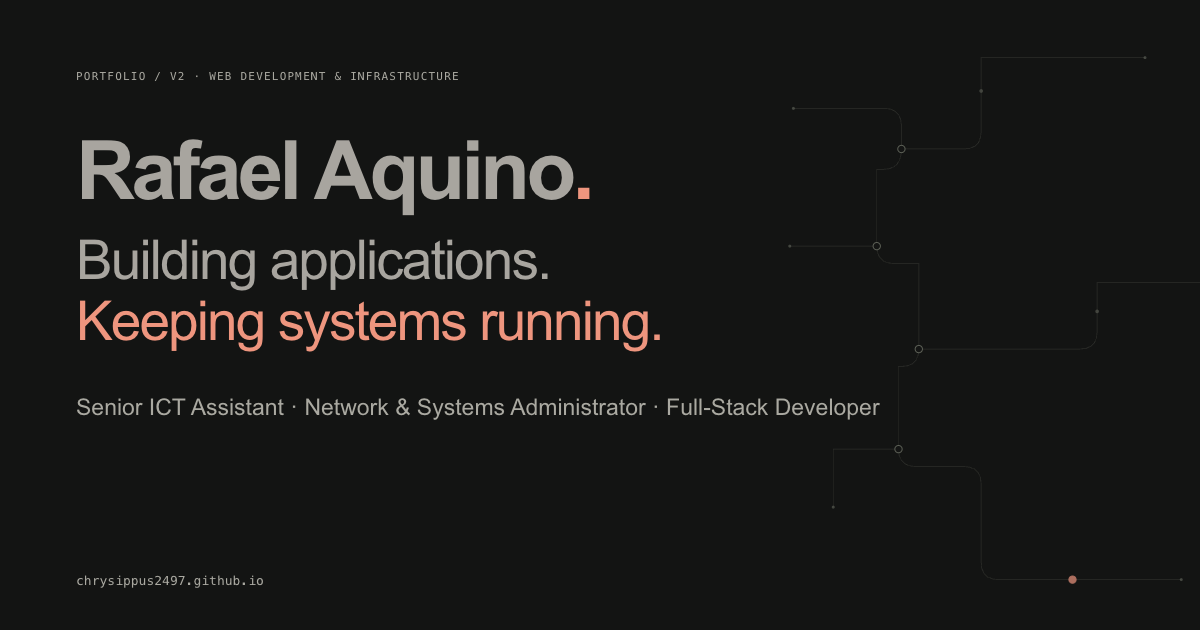
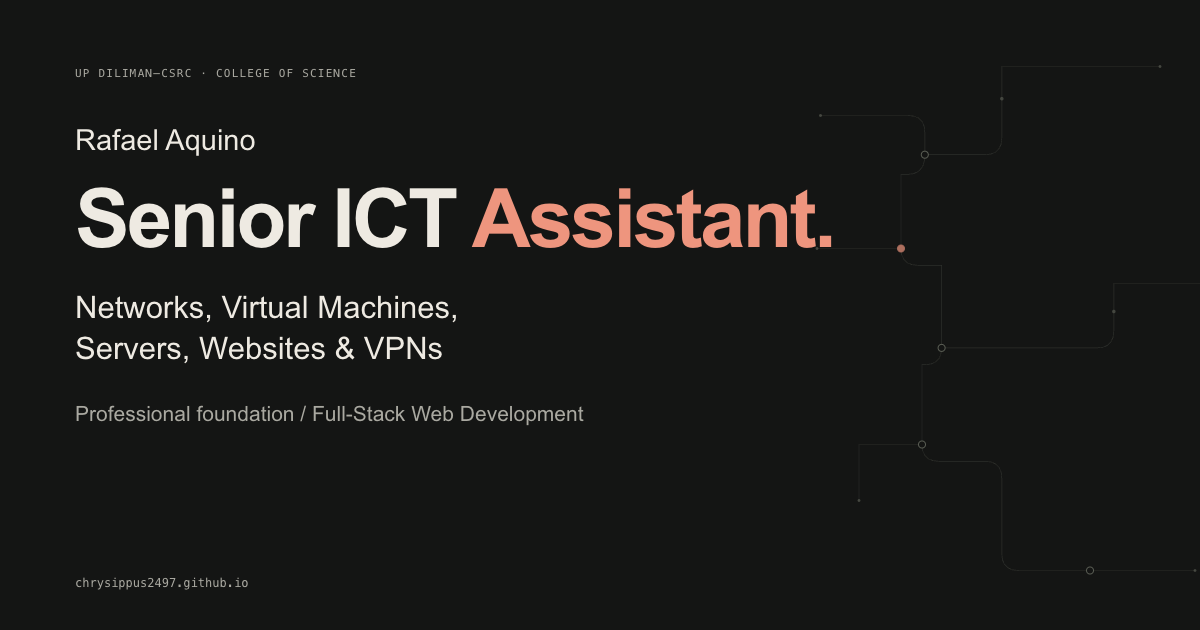
Lead with current ICT responsibilities and refine navigation and contact
Make Senior ICT Assistant the primary role across the hero, career diagram, current appointment, About, metadata, and sharing artwork. Preserve full-stack development as the professional foundation and retain all project records.

Add Overview and a visible filled active-navigation square. Introduce a Let’s Connect area with a mailto link, copy-email confirmation, and denied-clipboard fallback. Verify both themes, mobile layouts, navigation, and clipboard behavior.

diff --git a/index.html b/index.html
@@ -6,26 +6,26 @@
     <meta name="viewport" content="width=device-width, initial-scale=1">
     <meta name="theme-color" content="#141514">
     <script src="theme-init.js"></script>
-    <title>Rafael Aquino — Senior ICT Assistant · Networks, Systems & Software</title>
+    <title>Rafael Aquino — Senior ICT Assistant · UP Diliman–CSRC</title>
     <meta name="description"
-        content="Rafael Aquino — Senior ICT Assistant, Network & Systems Administrator, and Full-Stack Developer at UP Diliman. Web development experience expanded into networking, Linux servers, virtual machines, website maintenance, and VPN management.">
+        content="Rafael Aquino — Senior ICT Assistant at UP Diliman–CSRC, College of Science. Web development experience expanded into networking, Linux servers, virtual machines, website maintenance, and VPN management.">
     <link rel="canonical" href="https://chrysippus2497.github.io/">
     <meta property="og:type" content="website">
     <meta property="og:locale" content="en_PH">
-    <meta property="og:title" content="Rafael Aquino — Building applications. Keeping systems running.">
+    <meta property="og:title" content="Rafael Aquino — Senior ICT Assistant · Networks, Servers & ICT Operations">
     <meta property="og:description"
-        content="Senior ICT Assistant · Network & Systems Administrator · Full-Stack Developer. Explore institutional systems, websites, and infrastructure experience.">
+        content="Networks, virtual machines, servers, websites and VPNs. A foundation in full-stack web development, expanded into ICT operations.">
     <meta property="og:url" content="https://chrysippus2497.github.io/">
     <meta property="og:image" content="https://chrysippus2497.github.io/images/social-preview.png">
     <meta property="og:image:width" content="1200">
     <meta property="og:image:height" content="630">
-    <meta property="og:image:alt" content="Rafael Aquino — Building applications. Keeping systems running.">
+    <meta property="og:image:alt" content="Rafael Aquino — Senior ICT Assistant · Networks, Servers & ICT Operations">
     <meta name="twitter:card" content="summary_large_image">
-    <meta name="twitter:title" content="Rafael Aquino — Building applications. Keeping systems running.">
+    <meta name="twitter:title" content="Rafael Aquino — Senior ICT Assistant · Networks, Servers & ICT Operations">
     <meta name="twitter:description"
-        content="Senior ICT Assistant, Network & Systems Administrator, and Full-Stack Developer at UP Diliman.">
+        content="Senior ICT Assistant at UP Diliman–CSRC, College of Science.">
     <meta name="twitter:image" content="https://chrysippus2497.github.io/images/social-preview.png">
-    <meta name="twitter:image:alt" content="Rafael Aquino — Building applications. Keeping systems running.">
+    <meta name="twitter:image:alt" content="Rafael Aquino — Senior ICT Assistant · Networks, Servers & ICT Operations">
     <link rel="icon" type="image/png" href="images/faviconCircle.png">
     <link rel="preload" href="assets/Calibre-Regular-b0d4cbb1201155ddccc21d1b8059a670.woff2" as="font" type="font/woff2"
         crossorigin>
@@ -34,7 +34,7 @@
     <link rel="stylesheet" href="style.css">
     <script src="javascript.js" defer></script>
     <script
-        type="application/ld+json">{"@context":"https://schema.org","@type":"Person","name":"Rafael Aquino","url":"https://chrysippus2497.github.io/","image":"https://chrysippus2497.github.io/images/rafael-aquino.webp","jobTitle":["Senior ICT Assistant","Network & Systems Administrator","Full-Stack Developer"],"worksFor":{"@type":"Organization","name":"University of the Philippines Diliman — College of Science, Computational Science Research Center"},"alumniOf":{"@type":"CollegeOrUniversity","name":"AMA Computer College Caloocan"},"sameAs":["https://github.com/chrysippus2497","https://codepen.io/devrap2497"],"knowsAbout":["Network infrastructure","Systems administration","Virtualization","Full-stack development","Institutional systems"]}</script>
+        type="application/ld+json">{"@context":"https://schema.org","@type":"Person","name":"Rafael Aquino","url":"https://chrysippus2497.github.io/","image":"https://chrysippus2497.github.io/images/rafael-aquino.webp","jobTitle":"Senior ICT Assistant","worksFor":{"@type":"Organization","name":"University of the Philippines Diliman — College of Science, Computational Science Research Center"},"alumniOf":{"@type":"CollegeOrUniversity","name":"AMA Computer College Caloocan"},"sameAs":["https://github.com/chrysippus2497","https://codepen.io/devrap2497"],"knowsAbout":["Network infrastructure","Systems administration","Virtualization","Full-stack development","Institutional systems"]}</script>
 </head>
 
 <body>
@@ -54,7 +54,7 @@
             </div>
         </div>
         <noscript><nav class="no-script-nav wrap" aria-label="Primary navigation">
-            <a href="#projects">Work</a><a href="#infrastructure">Infrastructure</a><a href="#experience">Experience</a><a href="#expertise">Expertise</a><a href="#about">About</a><a href="resume/resume.pdf" target="_blank" rel="noopener">Résumé ↗</a><a href="#contact">Contact</a>
+            <a href="#home">Overview</a><a href="#projects">Work</a><a href="#infrastructure">Infrastructure</a><a href="#experience">Experience</a><a href="#expertise">Expertise</a><a href="#about">About</a><a href="resume/resume.pdf" target="_blank" rel="noopener">Résumé ↗</a><a href="#contact">Contact</a>
         </nav></noscript>
     </header>
     <dialog class="menu-dialog" id="navigation-panel" aria-labelledby="menu-heading">
@@ -62,8 +62,9 @@
             <div class="menu-panel-header"><p class="eyebrow" id="menu-heading">Explore the portfolio</p>
                 <button class="menu-close" type="button" aria-label="Close navigation menu" title="Close menu"><span class="close-icon" aria-hidden="true"></span></button>
             </div>
-            <p class="menu-intro">Developer roots.<br><span>Systems perspective.</span></p>
+            <p class="menu-intro">Senior ICT Assistant.<br><span>Networks & systems.</span></p>
             <nav class="menu-links" id="nav-links" aria-label="Primary navigation">
+                <a href="#home" data-label="Overview"><span class="menu-number" aria-hidden="true">00</span><span>Overview</span><span class="menu-active-indicator" aria-hidden="true"></span></a>
                 <a href="#projects" data-label="Selected work"><span class="menu-number" aria-hidden="true">01</span><span>Selected work</span><span class="menu-active-indicator" aria-hidden="true"></span></a>
                 <a href="#infrastructure" data-label="Infrastructure"><span class="menu-number" aria-hidden="true">02</span><span>Infrastructure</span><span class="menu-active-indicator" aria-hidden="true"></span></a>
                 <a href="#experience" data-label="Experience"><span class="menu-number" aria-hidden="true">03</span><span>Experience</span><span class="menu-active-indicator" aria-hidden="true"></span></a>
@@ -85,64 +86,41 @@
                     <g class="system-paths"><path d="M115 140H240Q264 140 264 164V196Q264 224 240 224H230V330Q230 354 254 354H288V472Q288 496 264 496H260V610Q260 634 284 634H350Q374 634 374 658V766Q374 790 398 790H650"/>
                         <path d="M264 196H350Q374 196 374 172V70H600M230 330H110M288 472H510Q534 472 534 448V380H738M260 610H170V690"/></g>
                     <g class="system-endpoints"><circle cx="115" cy="140" r="2"/><circle cx="600" cy="70" r="2"/><circle cx="110" cy="330" r="2"/><circle cx="738" cy="380" r="2"/><circle cx="170" cy="690" r="2"/><circle cx="650" cy="790" r="2"/></g>
-                    <g class="system-nodes"><circle cx="264" cy="196" r="5"/><circle cx="230" cy="330" r="5"/><circle cx="288" cy="472" r="5"/><circle cx="260" cy="610" r="5"/><circle class="system-node-active" cx="500" cy="790" r="5"/></g>
+                    <g class="system-nodes"><circle cx="264" cy="196" r="5"/><circle class="system-node-active" cx="230" cy="330" r="5"/><circle cx="288" cy="472" r="5"/><circle cx="260" cy="610" r="5"/><circle cx="500" cy="790" r="5"/></g>
                     <g class="system-junctions"><circle cx="374" cy="116" r="2.5"/><circle cx="534" cy="420" r="2.5"/></g>
-                    <g class="system-annotations"><text x="122" y="125">01 / NETWORK</text><text x="128" y="456">03 / COMPUTE</text><text x="520" y="814">05 / APPLICATION</text></g>
+                    <g class="system-annotations"><text x="122" y="125">FOUNDATION / WEB</text><text x="128" y="456">CURRENT / ICT</text><text x="520" y="814">SERVICES / SUPPORT</text></g>
                 </svg>
                 <svg class="system-mobile" viewBox="0 0 360 220" fill="none" focusable="false">
                     <g class="system-paths"><path d="M18 54H96Q112 54 112 70V102Q112 118 128 118H230Q246 118 246 134V160Q246 176 262 176H344M184 118V66Q184 50 200 50H302"/></g>
                     <g class="system-endpoints"><circle cx="18" cy="54" r="2"/><circle cx="302" cy="50" r="2"/><circle cx="344" cy="176" r="2"/></g>
-                    <g class="system-nodes"><circle cx="78" cy="54" r="4"/><circle cx="184" cy="118" r="4"/><circle cx="246" cy="153" r="4"/><circle class="system-node-active" cx="300" cy="176" r="4"/></g>
-                    <g class="system-annotations"><text x="205" y="36">CONNECTED / 01—05</text></g>
+                    <g class="system-nodes"><circle cx="78" cy="54" r="4"/><circle class="system-node-active" cx="184" cy="118" r="4"/><circle cx="246" cy="153" r="4"/><circle cx="300" cy="176" r="4"/></g>
+                    <g class="system-annotations"><text x="205" y="36">WEB → ICT OPERATIONS</text></g>
                 </svg>
             </div>
             <div class="hero-copy">
-                <p class="eyebrow"><span class="status-dot" aria-hidden="true"></span> Web development & infrastructure
-                </p>
-                <h1 id="hero-title">Rafael Aquino<span class="accent">.</span></h1>
-                <p class="hero-statement">Building applications.<br><span>Keeping systems<br>running.</span></p>
-                <p class="hero-intro">I started in web development. Today, as a Senior ICT Assistant at UP Diliman–CSRC, I manage networks, Linux servers, Proxmox virtual machines, websites, and VPN access.</p>
-                <div class="hero-roles"><strong>Senior ICT Assistant</strong><span>Network & Systems
-                        Administrator</span><span>Full-Stack Developer</span></div>
-                <div class="actions"><a class="button button-primary" href="#projects">Explore selected work <span
+                <p class="eyebrow"><span class="status-dot" aria-hidden="true"></span> UP Diliman–CSRC · College of Science</p>
+                <p class="hero-name">Rafael Aquino<span class="accent">.</span></p>
+                <h1 id="hero-title">Senior ICT<br><span class="accent">Assistant.</span></h1>
+                <p class="hero-statement">Networks, Virtual Machines,<br>Servers, Websites & VPNs</p>
+                <p class="hero-intro">Since August 2026, I support the ICT operations behind CSRC and College of Science services — from connectivity and virtual machines to Linux servers, institutional websites, and VPN access.</p>
+                <p class="hero-foundation"><span>Professional foundation</span><strong>Full-Stack Web Development</strong><br>Where I started. A skill I continue to use.</p>
+                <div class="actions"><a class="button button-primary" href="#infrastructure">Explore my ICT work <span
                             aria-hidden="true">→</span></a><a class="button button-secondary" href="resume/resume.pdf" target="_blank" rel="noopener">View résumé <span aria-hidden="true">↗</span></a></div>
                 <div class="hero-socials"><a class="social-link" href="https://github.com/chrysippus2497" target="_blank" rel="noopener noreferrer" aria-label="GitHub profile (opens in a new tab)" title="GitHub"><svg class="social-icon" width="21" height="21" viewBox="0 0 24 24" fill="none" stroke="currentColor" stroke-width="1.6" stroke-linecap="round" stroke-linejoin="round" aria-hidden="true" focusable="false"><path d="M9 19c-5 1.5-5-2.5-7-3m14 6v-3.87a3.37 3.37 0 0 0-.94-2.61c3.14-.35 6.44-1.54 6.44-7A5.44 5.44 0 0 0 20 4.77 5.07 5.07 0 0 0 19.91 1S18.73.65 16 2.48a13.38 13.38 0 0 0-7 0C6.27.65 5.09 1 5.09 1A5.07 5.07 0 0 0 5 4.77a5.44 5.44 0 0 0-1.5 3.78c0 5.42 3.3 6.61 6.44 7A3.37 3.37 0 0 0 9 18.13V22"/></svg></a><a class="social-link" href="https://codepen.io/devrap2497" target="_blank" rel="noopener noreferrer" aria-label="CodePen profile (opens in a new tab)" title="CodePen"><svg class="social-icon" width="21" height="21" viewBox="0 0 24 24" fill="none" stroke="currentColor" stroke-width="1.6" stroke-linecap="round" stroke-linejoin="round" aria-hidden="true" focusable="false"><polygon points="12 2 22 8.5 22 15.5 12 22 2 15.5 2 8.5 12 2"/><path d="M12 22v-6.5M22 8.5l-10 7-10-7m0 7 10-7 10 7M12 2v6.5"/></svg></a></div>
             </div>
             <figure class="stack-figure" aria-labelledby="stack-title">
-                <figcaption><span class="eyebrow" id="stack-title">An end-to-end perspective</span><span class="mono">01
-                        — 07</span></figcaption>
-                <ol class="stack-layers">
-                    <li><button type="button" data-layer="network" aria-pressed="false"><span
-                                class="layer-number">01</span><span class="layer-name">Network<small>Aruba CX · Cisco ·
-                                    UniFi</small></span><span class="layer-icon" aria-hidden="true">⌁</span></button>
-                    </li>
-                    <li><button type="button" data-layer="security" aria-pressed="false"><span
-                                class="layer-number">02</span><span class="layer-name">Security & access<small>pfSense ·
-                                    OpenVPN</small></span><span class="layer-icon" aria-hidden="true">◇</span></button>
-                    </li>
-                    <li><button type="button" data-layer="virtualization" aria-pressed="false"><span
-                                class="layer-number">03</span><span class="layer-name">Virtualization<small>Proxmox
-                                    VE</small></span><span class="layer-icon" aria-hidden="true">▱</span></button></li>
-                    <li><button type="button" data-layer="systems" aria-pressed="false"><span
-                                class="layer-number">04</span><span class="layer-name">Systems<small>Linux ·
-                                    Docker</small></span><span class="layer-icon" aria-hidden="true">▤</span></button>
-                    </li>
-                    <li><button type="button" data-layer="services" aria-pressed="false"><span
-                                class="layer-number">05</span><span class="layer-name">Web services<small>Web servers ·
-                                    Databases</small></span><span class="layer-icon"
-                                aria-hidden="true">≡</span></button></li>
-                    <li><button type="button" data-layer="applications" aria-pressed="true"><span
-                                class="layer-number">06</span><span class="layer-name">Applications<small>Laravel · PHP
-                                    · JavaScript · Vue</small></span><span class="layer-icon"
-                                aria-hidden="true">&lt;/&gt;</span></button></li>
-                    <li><button type="button" data-layer="experience" aria-pressed="false"><span
-                                class="layer-number">07</span><span class="layer-name">User experience<small>The people
-                                    using it all</small></span><span class="layer-icon"
-                                aria-hidden="true">↗</span></button></li>
+                <figcaption><span class="eyebrow" id="stack-title">From web development to ICT operations</span></figcaption>
+                <ol class="stack-layers career-layers">
+                    <li class="foundation-layer"><button type="button" data-layer="applications" aria-pressed="false"><span class="layer-number">Foundation</span><span class="layer-name">Full-stack web development<small>Websites · Applications · Institutional workflows</small></span><span class="layer-icon" aria-hidden="true">&lt;/&gt;</span></button></li>
+                    <li class="current-layer"><button type="button" data-layer="operations" aria-pressed="true"><span class="layer-number">Current</span><span class="layer-name">ICT operations<small>Senior ICT Assistant · August 2026–present</small></span><span class="layer-icon" aria-hidden="true">▤</span></button></li>
+                    <li class=""><button type="button" data-layer="network" aria-pressed="false"><span class="layer-number">01</span><span class="layer-name">Networks<small>Switching · Wireless · Connectivity</small></span><span class="layer-icon" aria-hidden="true">⌁</span></button></li>
+                    <li class=""><button type="button" data-layer="virtualization" aria-pressed="false"><span class="layer-number">02</span><span class="layer-name">Virtual machines<small>Proxmox VE · Provisioning · Backups</small></span><span class="layer-icon" aria-hidden="true">▱</span></button></li>
+                    <li class=""><button type="button" data-layer="systems" aria-pressed="false"><span class="layer-number">03</span><span class="layer-name">Linux servers<small>Administration · Monitoring · Maintenance</small></span><span class="layer-icon" aria-hidden="true">▤</span></button></li>
+                    <li class=""><button type="button" data-layer="services" aria-pressed="false"><span class="layer-number">04</span><span class="layer-name">Institutional websites<small>Maintenance · Web services · Databases</small></span><span class="layer-icon" aria-hidden="true">≡</span></button></li>
+                    <li class=""><button type="button" data-layer="security" aria-pressed="false"><span class="layer-number">05</span><span class="layer-name">VPN management<small>pfSense · Accounts · Remote access</small></span><span class="layer-icon" aria-hidden="true">◇</span></button></li>
                 </ol>
-                <p class="stack-detail" id="stack-detail" aria-live="polite">Applications turn infrastructure into
-                    useful tools: institutional workflows, business platforms, and everyday services.</p>
-                <p class="figure-note">Connected areas of experience, not a single project architecture.</p>
+                <p class="stack-detail" id="stack-detail" aria-live="polite">My current focus: networking, Proxmox virtual machines, Linux server administration, institutional website maintenance, and VPN management.</p>
+                <p class="figure-note">Professional foundation → current responsibilities. Select an area to explore.</p>
             </figure>
             <div class="hero-bottom"><span>Currently at <strong>UP Diliman · College of Science / CSRC</strong></span><a
                     href="#projects">Explore selected work <span aria-hidden="true">↓</span></a></div>
@@ -154,7 +132,7 @@
                     <p class="eyebrow"><span>01 /</span> Selected work</p>
                     <h2 id="work-title">Built for real workflows<span class="accent">.</span></h2>
                 </div>
-                <p>Institutional systems, business platforms, and websites — from the workflows they support to the code and services that make them work.</p>
+                <p>Selected work from my full-stack web development foundation — institutional systems, business platforms, and websites. These projects remain part of my technical experience.</p>
             </div>
             <div class="work-toolbar" hidden>
                 <div class="filters" role="group" aria-label="Filter projects"><button type="button" data-filter="all"
@@ -330,9 +308,9 @@
                         <p><time datetime="2026-08">August 2026</time> — Present</p>
                     </div>
                     <div class="career-body">
-                        <p class="career-domain">Infrastructure + applications</p>
+                        <p class="career-domain">Current focus / ICT operations</p>
                         <h3>Senior ICT Assistant</h3>
-                        <p class="career-role">Network & Systems Administrator · Full-Stack Developer</p>
+                        <p class="career-role">Networks, Virtual Machines, Servers, Websites & VPNs</p>
                         <p class="organization">University of the Philippines Diliman<br>College of Science —
                             Computational Science Research Center (CSRC)</p>
                         <div class="responsibilities">
@@ -492,15 +470,10 @@
                 </div>
                 <div class="about-copy">
                     <p class="eyebrow"><span>05 /</span> About</p>
-                    <h2 id="about-title">It started with the web.<br>The scope keeps growing.</h2>
-                    <p>I started with software: websites, business tools, and systems for schools. That background still
-                        guides my work — understanding a workflow, building the right interface, and making the
-                        application useful to the people relying on it.</p>
-                    <p>At UP Diliman, that perspective has expanded into enterprise networks, wireless infrastructure,
-                        Proxmox virtual machines, Linux server administration, website maintenance, and VPN management. I now work with both the application and
-                        the systems that keep it running.</p>
-                    <p class="about-emphasis">Development helps me understand what people use.<br>Infrastructure helps
-                        me understand what it depends on.</p>
+                    <h2 id="about-title">A foundation in web development.<br>A current focus on ICT operations.</h2>
+                    <p>I began in full-stack web development, building websites, business tools, and institutional applications. That remains an ongoing skill and the foundation of how I understand the services people use.</p>
+                    <p>Since August 2026, I have been a Senior ICT Assistant at UP Diliman–CSRC, College of Science. My current work centers on networking, Proxmox virtual machine management, Linux server administration, institutional website maintenance, and VPN management.</p>
+                    <p class="about-emphasis">My scope expanded from building web applications to operating and maintaining the systems behind institutional services.</p>
                     <div class="education"><span class="eyebrow">Education</span>
                         <h3>Bachelor of Science in Information Technology</h3>
                         <p>AMA Computer College Caloocan<br>Core Member — Google Developer Student Clubs (GDSC)</p>
@@ -528,11 +501,14 @@
             <div class="wrap section">
                 <p class="eyebrow"><span>06 /</span> Get in touch</p>
                 <div class="contact-layout">
-                    <h2 id="contact-title">Let’s build.<br>Keep it running.<br><span class="accent">Make it better.</span></h2>
+                    <h2 id="contact-title">Let’s <span class="accent">Connect.</span></h2>
                     <div class="contact-copy">
-                        <p>Have a website, a system, or an infrastructure challenge in mind? Let’s talk about what it
-                            needs.</p><a class="contact-email"
-                            href="mailto:rafael.aquino.186@gmail.com">rafael.aquino.186@gmail.com <svg class="email-icon" width="21" height="21" viewBox="0 0 24 24" fill="none" stroke="currentColor" stroke-width="1.6" stroke-linecap="round" stroke-linejoin="round" aria-hidden="true" focusable="false"><rect x="3" y="5" width="18" height="14" rx="2"/><path d="m3 7 9 6 9-6"/></svg></a>
+                        <p>For ICT operations, institutional services, or web development collaborations, you can reach me directly.</p>
+                        <div class="contact-email-panel">
+                            <span class="contact-email-label"><svg class="email-icon" width="21" height="21" viewBox="0 0 24 24" fill="none" stroke="currentColor" stroke-width="1.6" stroke-linecap="round" stroke-linejoin="round" aria-hidden="true"><rect x="3" y="5" width="18" height="14" rx="2"/><path d="m3 7 9 6 9-6"/></svg>Email Rafael</span>
+                            <a class="contact-email" id="contact-email" href="mailto:rafael.aquino.186@gmail.com">rafael.aquino.186@gmail.com</a>
+                            <div class="copy-email-row"><button class="copy-email" type="button" hidden><svg width="17" height="17" viewBox="0 0 24 24" fill="none" stroke="currentColor" stroke-width="1.6" aria-hidden="true"><rect x="8" y="8" width="12" height="13" rx="2"/><path d="M16 8V3H3v13h5"/></svg>Copy email</button><span class="copy-status" role="status" aria-live="polite"></span></div>
+                        </div>
                         <div class="contact-links"><a class="social-link" href="https://github.com/chrysippus2497" target="_blank" rel="noopener noreferrer" aria-label="GitHub profile (opens in a new tab)" title="GitHub"><svg class="social-icon" width="21" height="21" viewBox="0 0 24 24" fill="none" stroke="currentColor" stroke-width="1.6" stroke-linecap="round" stroke-linejoin="round" aria-hidden="true" focusable="false"><path d="M9 19c-5 1.5-5-2.5-7-3m14 6v-3.87a3.37 3.37 0 0 0-.94-2.61c3.14-.35 6.44-1.54 6.44-7A5.44 5.44 0 0 0 20 4.77 5.07 5.07 0 0 0 19.91 1S18.73.65 16 2.48a13.38 13.38 0 0 0-7 0C6.27.65 5.09 1 5.09 1A5.07 5.07 0 0 0 5 4.77a5.44 5.44 0 0 0-1.5 3.78c0 5.42 3.3 6.61 6.44 7A3.37 3.37 0 0 0 9 18.13V22"/></svg></a><a class="social-link" href="https://codepen.io/devrap2497" target="_blank" rel="noopener noreferrer" aria-label="CodePen profile (opens in a new tab)" title="CodePen"><svg class="social-icon" width="21" height="21" viewBox="0 0 24 24" fill="none" stroke="currentColor" stroke-width="1.6" stroke-linecap="round" stroke-linejoin="round" aria-hidden="true" focusable="false"><polygon points="12 2 22 8.5 22 15.5 12 22 2 15.5 2 8.5 12 2"/><path d="M12 22v-6.5M22 8.5l-10 7-10-7m0 7 10-7 10 7M12 2v6.5"/></svg></a><a class="document-link" href="resume/resume.pdf"
                                 download="Rafael_Aquino_Resume.pdf">Download résumé <span aria-hidden="true">↓</span></a></div>
                     </div>
@@ -541,7 +517,7 @@
         </section>
     </main>
     <footer class="site-footer wrap">
-        <div class="footer-identity"><p>Rafael Aquino</p><span>Network, Systems & Software</span></div>
+        <div class="footer-identity"><p>Rafael Aquino</p><span>Senior ICT Assistant · Networks & Systems</span></div>
         <div class="footer-links"><a class="social-link" href="https://github.com/chrysippus2497" target="_blank" rel="noopener noreferrer" aria-label="GitHub profile (opens in a new tab)" title="GitHub"><svg class="social-icon" width="21" height="21" viewBox="0 0 24 24" fill="none" stroke="currentColor" stroke-width="1.6" stroke-linecap="round" stroke-linejoin="round" aria-hidden="true" focusable="false"><path d="M9 19c-5 1.5-5-2.5-7-3m14 6v-3.87a3.37 3.37 0 0 0-.94-2.61c3.14-.35 6.44-1.54 6.44-7A5.44 5.44 0 0 0 20 4.77 5.07 5.07 0 0 0 19.91 1S18.73.65 16 2.48a13.38 13.38 0 0 0-7 0C6.27.65 5.09 1 5.09 1A5.07 5.07 0 0 0 5 4.77a5.44 5.44 0 0 0-1.5 3.78c0 5.42 3.3 6.61 6.44 7A3.37 3.37 0 0 0 9 18.13V22"/></svg></a><a class="social-link" href="https://codepen.io/devrap2497" target="_blank" rel="noopener noreferrer" aria-label="CodePen profile (opens in a new tab)" title="CodePen"><svg class="social-icon" width="21" height="21" viewBox="0 0 24 24" fill="none" stroke="currentColor" stroke-width="1.6" stroke-linecap="round" stroke-linejoin="round" aria-hidden="true" focusable="false"><polygon points="12 2 22 8.5 22 15.5 12 22 2 15.5 2 8.5 12 2"/><path d="M12 22v-6.5M22 8.5l-10 7-10-7m0 7 10-7 10 7M12 2v6.5"/></svg></a><a href="mailto:rafael.aquino.186@gmail.com" aria-label="Email Rafael Aquino" title="Email"><svg class="email-icon" width="21" height="21" viewBox="0 0 24 24" fill="none" stroke="currentColor" stroke-width="1.6" aria-hidden="true"><rect x="3" y="5" width="18" height="14" rx="2"/><path d="m3 7 9 6 9-6"/></svg></a><a href="resume/resume.pdf" target="_blank" rel="noopener">Résumé ↗</a></div>
         <div class="footer-version"><span>© <span id="year">2026</span></span><a href="v2/" aria-label="Portfolio version 2, current">Portfolio / V2</a><a href="v1/">Archive V1 ↗</a></div>
     </footer>

diff --git a/javascript.js b/javascript.js
@@ -80,19 +80,42 @@
   });
 
   const layers = {
-    network: 'Connectivity is the foundation. Enterprise switching and wireless networks connect people, devices, and services.',
-    security: 'Access connects that foundation to the right people. Firewall and VPN administration support secure remote connectivity.',
-    virtualization: 'Virtualization gives services a place to run. Proxmox brings virtual machines, resources, snapshots, and backups together.',
-    systems: 'Linux servers and containers provide the operating environment. Maintenance and monitoring support the services above them.',
-    services: 'Web servers and databases serve the application. Configuration, certificates, and production support keep those pieces working together.',
-    applications: 'Applications turn infrastructure into useful tools: institutional workflows, business platforms, and everyday services.',
-    experience: 'People complete the picture. Clear interfaces and practical workflows make the underlying technology useful.'
+    operations: 'My current focus: networking, Proxmox virtual machines, Linux server administration, institutional website maintenance, and VPN management.',
+    network: 'I manage enterprise switching and wireless connectivity, troubleshoot network issues, and support reliable access to College of Science services.',
+    security: 'I manage VPN accounts and remote access through pfSense, including account creation and renewal, access configuration, and user support.',
+    virtualization: 'I manage Proxmox virtual machines: provisioning, resource allocation, snapshots, backups, and monitoring.',
+    systems: 'I administer Linux production servers and containerized services, including maintenance, monitoring, backups, and troubleshooting.',
+    services: 'I maintain CSRC and College of Science websites, web services, databases, and certificates, and support production deployments.',
+    applications: 'Full-stack web development is my professional foundation and an ongoing skill. My earlier work includes websites, business platforms, and institutional applications.'
+
   };
   document.querySelectorAll('[data-layer]').forEach(button => {
     button.addEventListener('click', () => {
       document.querySelectorAll('[data-layer]').forEach(layer => layer.setAttribute('aria-pressed', String(layer === button)));
       document.getElementById('stack-detail').textContent = layers[button.dataset.layer];
     });
+  });
+
+  const copyEmail = document.querySelector('.copy-email');
+  const copyStatus = document.querySelector('.copy-status');
+  let confirmationTimer;
+  copyEmail.hidden = false;
+  copyEmail.addEventListener('click', async () => {
+    clearTimeout(confirmationTimer);
+    const email = document.getElementById('contact-email').getAttribute('href').slice(7);
+    try {
+      await navigator.clipboard.writeText(email);
+      copyStatus.textContent = 'Email copied.';
+    } catch {
+      // Leave the address selected for a manual copy when clipboard access is denied.
+      const range = document.createRange();
+      range.selectNodeContents(document.getElementById('contact-email'));
+      const selection = window.getSelection();
+      selection.removeAllRanges();
+      selection.addRange(range);
+      copyStatus.textContent = 'Select and copy the email address.';
+    }
+    confirmationTimer = setTimeout(() => { copyStatus.textContent = ''; }, 3500);
   });
 
   document.querySelector('.work-toolbar').hidden = false;
@@ -144,7 +167,7 @@
 
   // Track section starts so long project lists retain the correct active navigation link.
   const sectionLinks = [...navigation.querySelectorAll('a[href^="#"]')];
-  const sectionCount = String(sectionLinks.length).padStart(2, '0');
+  const sectionCount = String(sectionLinks.length - 1).padStart(2, '0');
   let scheduled = false;
   function markCurrentSection(current) {
     sectionLinks.forEach(link => {
@@ -152,7 +175,7 @@
       else link.removeAttribute('aria-current');
     });
     document.getElementById('nav-location').textContent = current?.dataset.label || 'Portfolio / V2';
-    document.getElementById('nav-position').textContent = current ? `${String(sectionLinks.indexOf(current) + 1).padStart(2, '0')} / ${sectionCount}` : `Index / ${sectionCount}`;
+    document.getElementById('nav-position').textContent = current ? `${String(sectionLinks.indexOf(current)).padStart(2, '0')} / ${sectionCount}` : `Index / ${sectionCount}`;
   }
   function updateNavigation() {
     const atBottom = Math.ceil(window.scrollY + window.innerHeight) >= document.documentElement.scrollHeight - 2;

diff --git a/style.css b/style.css
@@ -2022,3 +2022,48 @@ a.social-link:hover { color: var(--accent); background: var(--surface-raised); b
 @media print {
   .nav-utilities,.theme-settings,.connected-system,.contact-section::before,.contact-section::after { display:none!important; }
 }
+
+/* Current appointment leads; development remains an explicitly labeled foundation. */
+.hero-name { font-size:30px; font-weight:500; color:var(--ink); margin-top:26px; }
+.hero h1 { font-size:clamp(58px,5.7vw,82px); margin:12px 0 22px; }
+.hero-statement { font-size:clamp(25px,2.2vw,32px); line-height:1.18; letter-spacing:-.015em; }
+.hero-intro { font-size:20px; margin-top:22px; }
+.hero-foundation { font-size:17px; margin-top:23px; line-height:1.45; }
+.hero-foundation>span { display:block; font:10px/1.6 var(--mono); text-transform:uppercase; letter-spacing:.07em; margin-bottom:5px; }
+.hero-foundation strong { color:var(--ink); font-weight:500; }
+.career-layers .foundation-layer { border-bottom:1px solid var(--border); margin-bottom:12px; padding-bottom:10px; }
+.career-layers .foundation-layer .layer-name { font-size:19px; }
+.career-layers .foundation-layer .layer-number,.career-layers .current-layer .layer-number { font-size:9px; padding:4px; }
+.career-layers .foundation-layer button,.career-layers .current-layer button { flex-wrap:wrap; gap:8px 12px; }
+.career-layers .foundation-layer .layer-number,.career-layers .current-layer .layer-number { flex-basis:100%; background:transparent; text-transform:uppercase; }
+.career-layers::before { top:165px; }
+.menu-active-indicator { width:8px; height:8px; background:currentColor; align-self:center; transform:none; }
+.menu-links a { grid-template-columns:25px 8px minmax(0,1fr); column-gap:14px; }
+.menu-links a>.menu-number { grid-column:1; grid-row:1; }
+.menu-links a>span:nth-child(2) { grid-column:3; grid-row:1; }
+.menu-active-indicator { grid-column:2; grid-row:1; }
+.contact-layout { grid-template-columns:minmax(0,.85fr) minmax(0,1.15fr); align-items:start; gap:8%; }
+.contact-copy>p { max-width:480px; }
+.contact-email-panel { border-block:1px solid var(--border-strong); padding:22px 0 14px; }
+.contact-email-label { display:flex; align-items:center; gap:10px; font:11px var(--mono); color:var(--muted); }
+.contact-email-label svg { color:var(--accent); }
+.contact-email { border:0; display:block; font-size:clamp(21px,2.4vw,33px); padding:14px 0; min-height:44px; width:fit-content; }
+.copy-email-row { display:flex; flex-wrap:wrap; align-items:center; gap:8px 18px; }
+.copy-email { display:inline-flex; align-items:center; gap:9px; min-height:44px; padding:8px 12px; border:1px solid var(--border); background:var(--surface-raised); font-size:16px; }
+.copy-email:hover { color:var(--accent); border-color:var(--accent); }
+.copy-status { min-height:20px; font-size:16px; color:var(--accent); }
+@media(max-width:760px) {
+  .hero h1 { font-size:clamp(55px,11vw,78px); }
+  .hero-statement { font-size:27px; }
+  .hero-name { font-size:27px; }
+  .contact-layout { grid-template-columns:1fr; gap:30px; }
+  .contact-email { font-size:clamp(20px,5.4vw,29px); }
+  .contact-layout h2 { margin-bottom:0; }
+}
+@media(max-width:360px) {
+  .hero h1 { font-size:54px; }
+  .hero-statement { font-size:24px; }
+  .menu-links a { column-gap:10px; }
+}
+
+.hero-foundation + .actions { margin-top:24px; }

diff --git a/README.md b/README.md
@@ -12,7 +12,7 @@ Visit `http://127.0.0.1:8765/`. The checked-in HTML also contains every project 
 
 ## Navigation and résumé access
 
-The header uses an icon-only hamburger at every width. It opens a native modal side panel with six numbered section links, a small square marking the active section, contact icons, and a direct résumé link. Escape, the X control, and the desktop backdrop dismiss it; focus returns to the opener or moves to the selected section. The background is inert and scroll-locked while the menu is open. A simple navigation fallback remains available without JavaScript.
+The header uses an icon-only hamburger at every width. It opens a native modal side panel with an Overview link and six numbered section links, a small square marking the active section, contact icons, and a direct résumé link. Escape, the X control, and the desktop backdrop dismiss it; focus returns to the opener or moves to the selected section. The background is inert and scroll-locked while the menu is open. A simple navigation fallback remains available without JavaScript.
 
 GitHub and CodePen use inline SVG icons with accessible labels, hover titles, and 44px touch targets. Primary document and project actions retain descriptive text. “View résumé” opens the full PDF in a new tab; the contact section also provides a download. There is no embedded résumé viewer or preview-image dependency.
 
@@ -83,8 +83,16 @@ The header sun/moon button switches directly between Dark and Light. The menu ut
 
 Theme tokens live at the top of `style.css`: backgrounds, surfaces, text, accent/on-accent, borders, selection/focus, image frames/shadows, overlays, and graph colors. The light-token fallback under the system media query intentionally matches the explicit light theme. Components consume tokens; existing project images are unchanged. `scripts/check-theme.mjs` verifies initialization, persistence, system changes, invalid/blocked storage, cross-tab synchronization, and isolation from V1.
 
-The hero uses inline decorative SVG with five primary nodes and sparse connections around the existing seven-layer interaction. Compact screens receive a separate four-node composition; tablet paths stay above the system figure, while mobile paths sit between the introduction and figure. The graph has no data animation or pointer tracking, and is hidden from assistive technology. Ambient depth and the short contact callback use theme tokens. The retired diagonal SVG has been removed; no archived assets were modified.
+The hero uses inline decorative SVG with five primary nodes and sparse connections around the career progression and current-responsibility controls. Compact screens receive a separate four-node composition; tablet paths stay above the system figure, while mobile paths sit between the introduction and figure. The graph has no data animation or pointer tracking, and is hidden from assistive technology. Ambient depth and the short contact callback use theme tokens. The retired diagonal SVG has been removed; no archived assets were modified.
 
 Career chronology starts with web development and expands into current ICT operations. Confirmed dates: Senior ICT Assistant at UP Diliman–CSRC, College of Science, August 2026–present; the previous Project Staff role ended July 31, 2026. The résumé remains the source for responsibilities; the user's confirmed end date supplies day-level precision on the timeline.
 
-The navigation square follows the link with `aria-current="location"`; JavaScript updates it on selection, scrolling, resize, hash changes, and content-height changes. At the hero, no sidebar section is active. Reduced-motion preferences disable the indicator's short opacity/scale transition.
+The navigation square follows the link with `aria-current="location"`; JavaScript updates it on selection, scrolling, resize, hash changes, and content-height changes. At the hero, Overview is active. Reduced-motion preferences disable the indicator's short opacity/scale transition.
+
+## Current professional hierarchy and contact
+
+Senior ICT Assistant is the primary heading and sole current job title in Person metadata. The current focus is Networks, Virtual Machines, Servers, Websites & VPNs. Full-Stack Web Development is labeled as the professional foundation and ongoing skill; all eight original project records remain unchanged. The hero progression starts with that foundation, then highlights current ICT operations and its five responsibility areas. About, the current timeline entry, menu introduction, footer, and sharing artwork follow the same hierarchy. Confirmed appointment dates remain August 2026–present and July 31, 2026 for the previous role's end.
+
+The active navigation indicator is an 8px filled square immediately beside the label, inheriting the active text color. Overview provides an active destination at the top of the page; six content sections retain their existing numbering.
+
+The contact area uses a clickable email link and a native Clipboard API action. Successful copies announce “Email copied.” briefly through a live status region. Denied or unavailable clipboard access selects the address and offers a manual-copy instruction; the email link works without JavaScript.

diff --git a/QA.md b/QA.md
@@ -61,5 +61,14 @@ Rechecked 2026-09-30. Unavailable links are preserved as historical records, not
 
 - The hero now says “Building applications. Keeping systems running.” and explicitly describes starting in web development before expanding into current ICT operations. The career and About copy name networking, Linux server administration, Proxmox virtual machines, website maintenance, and VPN management. All eight development projects remain.
 - User-confirmed dates override résumé month-level precision where supplied: Senior ICT Assistant, UP Diliman–CSRC, College of Science, August 2026–present; Project Staff – Full-Stack Developer & System Administrator, July 2025–July 31, 2026. Machine-readable time attributes preserve this precision without inventing an exact August start day.
-- Replaced section-navigation arrows with a 6px square shown only beside the link marked `aria-current="location"`. Selection updates immediately; scroll position, viewport changes, hash changes, and layout changes keep the indicator synchronized. No square is shown while the hero is the current view because Home is not a sidebar item.
+- Replaced section-navigation arrows with a 6px square shown only beside the link marked `aria-current="location"`. Selection updates immediately; scroll position, viewport changes, hash changes, and layout changes keep the indicator synchronized. Superseded by the Overview item added in the ICT-emphasis revision below.
 - Browser checks cover all six sections in both themes, immediate selections, manual scrolling, smooth scrolling, and short final-section behavior. Only one active square is visible at a time. The existing menu focus and Escape behavior remain intact.
+
+## ICT emphasis, active indicator, and contact revision
+
+- Inspected the published hero before editing. It still led with application development and selected Applications; both are replaced by a primary Senior ICT Assistant heading and selected ICT operations control. The current focus and development foundation are explicitly separated throughout the hero, diagram, About, current appointment, metadata, footer, and sharing artwork.
+- Current operations list networking, Proxmox VMs, Linux servers, institutional website maintenance, and VPN management. Development is presented first in the career progression as the foundation and ongoing skill. All eight project records and their original technology stacks remain unchanged.
+- Added Overview so the sidebar has a visible active indicator even at the hero. An 8px filled square sits next to the active label and inherits its exact color. Scrolling and selection tested for Overview and all six sections.
+- Dark and light layouts tested at 1440, 768, 390, and 320px: no horizontal overflow. Desktop/mobile Axe scans report zero violations in the tested page states. Role hierarchy, confirmed dates, initial ICT selection, indicator color, and contact layout checked in-browser.
+- Native clipboard write succeeds with an actual browser click. Confirmation clears after 3.5 seconds. A denied-write test verifies manual selection and an accurate fallback message. The mailto link remains available independently of the button.
+- Theme behavior checks, generated project/asset integrity, archive checksums, JavaScript syntax, and git whitespace checks pass. V1 and the résumé were not modified.
